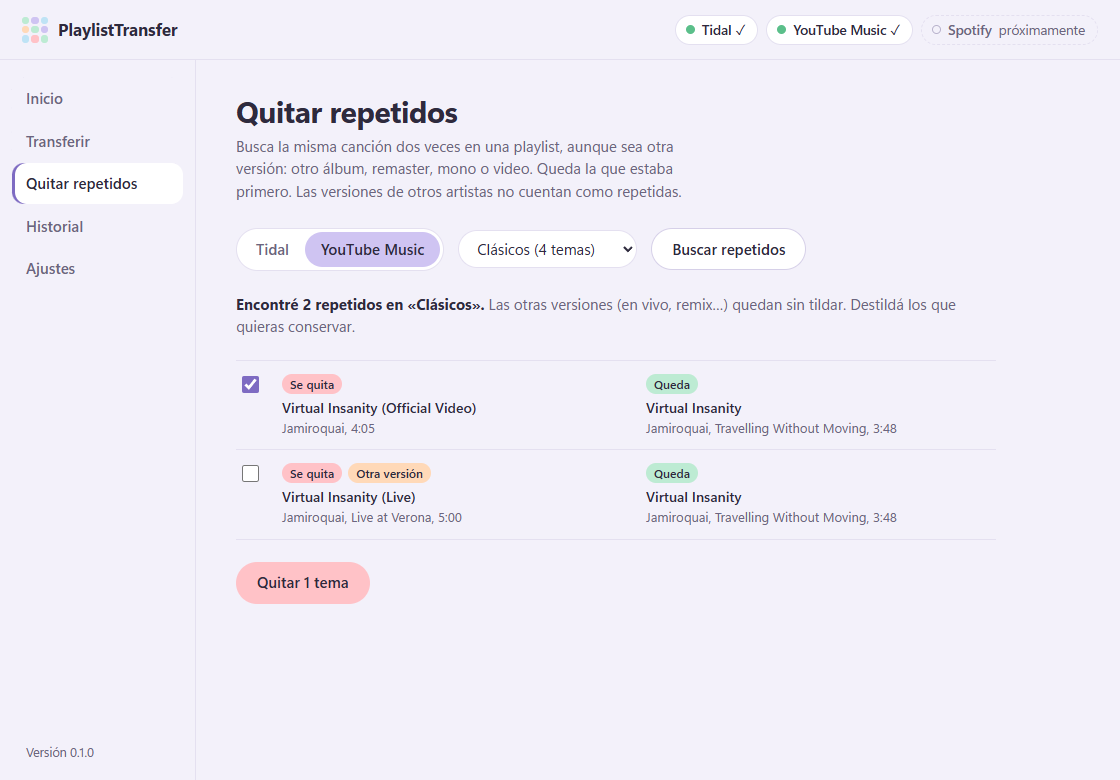
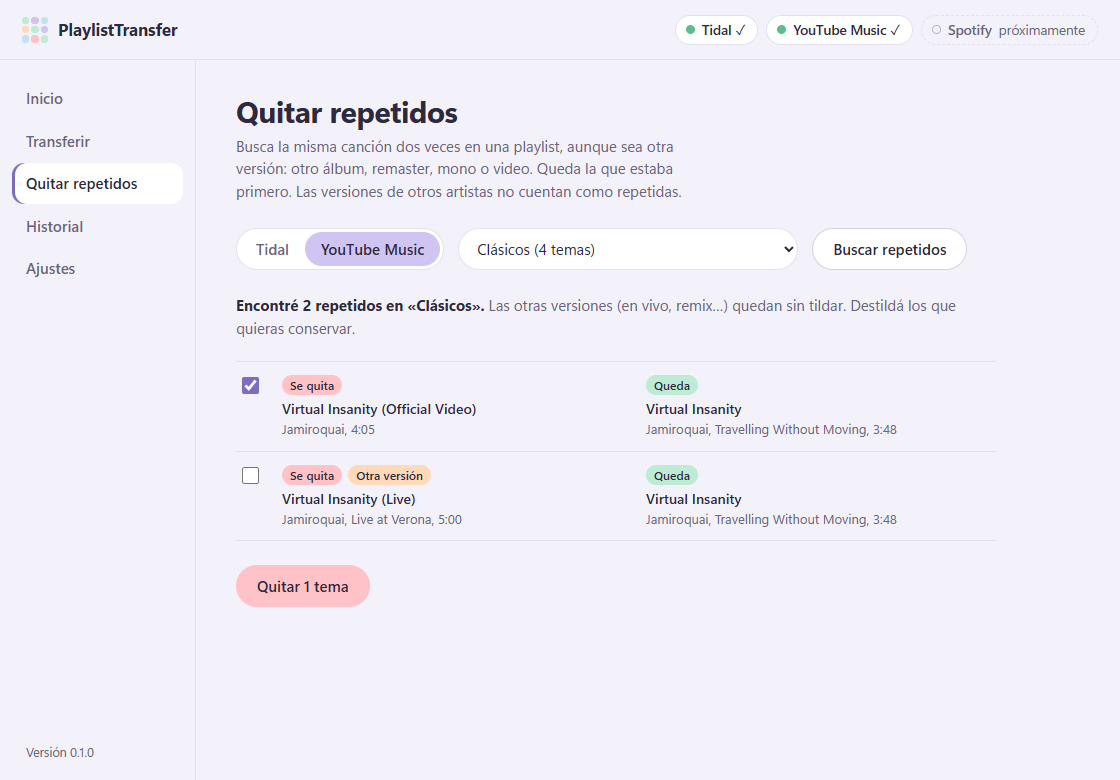
Mejoras 3/3: pantallas armonizadas con un solo sistema de tamaños
- Botones en 3 tamaños: 42 (acción principal), 36 (secundarias, Ajustes, avisos, estados
  vacíos) y 28 (dentro de un tema). Antes había 5 alturas distintas
- Campos de 36 con un mismo radio; en filas de acciones, 42: la fila de Repetidos queda
  alineada (antes 35 / 38 / 42)
- Misma separación de las filas de botones en todas las pantallas y mismo estilo de cajas
- Resultado: "Agregar los N…" debajo de su explicación; los botones ya no se apilan
- Ayuda de los umbrales más corta; sin estilos sueltos en el HTML
- tests/test_ui_design.py mide todos los controles de todas las pantallas
- Capturas del README actualizadas

diff --git a/app/ui/styles.css b/app/ui/styles.css
@@ -340,3 +340,52 @@ main { overflow-wrap: anywhere; }                       /* una palabra larguísi
 
 /* Repetidos: el selector no crece con el nombre más largo */
 #dup-playlist { width: 340px; max-width: 100%; min-width: 0; text-overflow: ellipsis; }
+
+/* =====================================================================================
+   Armonización (mejoras 3): un solo sistema de tamaños para toda la app.
+   Botones: grande (acción principal de la pantalla), mediano (secundarias, Ajustes, avisos,
+   estados vacíos) y chico (dentro de un tema de la lista). Los campos usan el alto mediano.
+   ===================================================================================== */
+:root {
+  --h-lg: 42px;
+  --h-md: 36px;
+  --h-sm: 28px;
+  --r-field: 12px;
+  --gap-actions: 24px;       /* separación entre el contenido y su fila de botones */
+  --gap-in-box: 16px;        /* lo mismo, dentro de una caja (resultado, Ajustes) */
+}
+
+/* Botones */
+.btn { height: var(--h-lg); }
+.btn.md, .svc .btn, .notice .btn, .empty .btn, .settings .btn {
+  height: var(--h-md); padding: 0 16px; font-size: 14px;
+}
+.tracks .alts button { height: var(--h-sm); padding: 0 12px; font-weight: 500; }
+
+/* Selector de opciones (Tidal / YouTube Music, Todo / Transferencias / Repetidos): mide lo
+   mismo que un botón grande, así la fila de Repetidos queda alineada */
+.seg { padding: 3px; align-items: center; }
+.seg button { height: calc(var(--h-lg) - 8px); padding: 0 16px; }
+
+/* Campos: alto mediano, mismo radio. El desplegable de una fila de acciones va al alto grande */
+.picker .filter, .picker .new input[type="text"], .thresholds input {
+  height: var(--h-md); border-radius: var(--r-field); font-size: 14px;
+}
+.row-controls .select { height: var(--h-lg); }
+
+/* Filas de acciones: misma separación en todas las pantallas */
+.actions { margin-top: var(--gap-actions); }
+.done-box .actions, .settings .actions { margin-top: var(--gap-in-box); }
+
+/* Cajas: avisos y resultado con el mismo aspecto */
+.notice, .done-box { padding: 18px 20px; border-radius: 16px; }
+.done-box .done-extra { margin-top: 12px; }
+
+/* Estado vacío: texto y botón en una línea, alineados */
+.history-mini li.empty, .hist li.empty { display: flex; align-items: center; gap: 12px; flex-wrap: wrap; }
+.empty .btn { margin-left: 0; }
+
+/* Ayuda de los umbrales: más corta y del mismo tamaño que el resto de las ayudas */
+.th-help { margin: 12px 0 0; font-size: 13.5px; }
+.dup-summary { margin: var(--gap-actions) 0 0; }
+.libs-title { margin-top: 12px; }

diff --git a/app/ui/index.html b/app/ui/index.html
@@ -98,9 +98,9 @@
         <div class="done-box" id="done" role="status">
           <p><b id="done-title"></b></p>
           <p class="muted" id="done-detail"></p>
-          <div class="actions" style="margin-top:14px">
+          <div class="done-extra"><button class="btn ghost md" id="add-all" hidden data-needs-idle></button></div>
+          <div class="actions">
             <button class="btn primary" id="open-dest" hidden></button>
-            <button class="btn ghost" id="add-all" hidden data-needs-idle></button>
             <button class="btn ghost" id="open-report" hidden data-i18n="transfer.open_report">Abrir el reporte</button>
             <button class="btn ghost" id="again" data-i18n="transfer.again">Hacer otra transferencia</button>
           </div>
@@ -122,7 +122,7 @@
         <select class="select" data-i18n-aria="dedupe.playlist_aria" aria-label="Playlist" id="dup-playlist"></select>
         <button class="btn ghost" id="dup-scan" disabled data-i18n="dedupe.scan">Buscar repetidos</button>
       </div>
-      <p style="margin:22px 0 0" id="dup-summary" hidden></p>
+      <p class="dup-summary" id="dup-summary" hidden></p>
       <ul class="dups" id="dups"></ul>
       <div class="actions" id="dup-actions" hidden>
         <button class="btn danger" id="remove" disabled data-i18n="dedupe.remove">Quitar</button>
@@ -178,7 +178,7 @@
           </div>
           <p class="muted th-help" id="th-help"></p>
           <p class="error" id="th-error" hidden></p>
-          <div class="actions" style="margin-top:12px">
+          <div class="actions">
             <button class="btn ghost" id="th-save" data-i18n="settings.th_save">Guardar</button>
             <button class="btn ghost" id="th-reset" data-i18n="settings.th_reset">Volver a los valores de fábrica</button>
           </div>
@@ -195,7 +195,7 @@
         <div>
           <p id="about-version"></p>
           <p class="muted" data-i18n="settings.not_affiliated">No está afiliado a Tidal, Google ni Spotify.</p>
-          <p class="muted" style="margin-top:12px" data-i18n="settings.libraries">Usa estas librerías de código abierto:</p>
+          <p class="muted libs-title" data-i18n="settings.libraries">Usa estas librerías de código abierto:</p>
           <ul class="licenses" id="licenses"></ul>
         </div>
       </section>

diff --git a/tests/test_ui_design.py b/tests/test_ui_design.py
@@ -1,0 +1,70 @@
+"""Sistema de diseño: todos los botones y campos usan los tamaños definidos (mejoras 3).
+
+Botones: 42 (principal), 36 (secundario) y 28 (dentro de un tema). Los segmentos de un selector
+miden 34 y el selector entero, 42. Campos: 36, o 42 si están en una fila de acciones. Los
+selectores de la frase de Inicio ("Pasar de Tidal a…") son grandes a propósito.
+"""
+from __future__ import annotations
+
+from tests.test_ui import browser, make_api, open_page  # noqa: F401  (fixture de Playwright)
+
+BUTTONS = {28, 36, 42}
+SEGMENT = 34
+FIELDS = {36, 42}
+
+MEASURE = """(screen) => {
+  const vis = el => { const r = el.getBoundingClientRect(); return r.width > 0 && r.height > 0; };
+  const root = document.querySelector('#' + screen), out = [];
+  root.querySelectorAll('button, input[type=text], input[type=search], input[type=number], select').forEach(el => {
+    if (!vis(el) || el.matches('.hist button.row, .sentence select')) return;   // filas del historial y la frase de Inicio
+    out.push({what: (el.id || el.className || el.tagName) + ' «' + (el.textContent || '').trim().slice(0, 20) + '»',
+              h: Math.round(el.getBoundingClientRect().height), tag: el.tagName, seg: !!el.closest('.seg'),
+              field: el.matches('input, select')});
+  });
+  return out;
+}"""
+
+
+def check(page, screen):
+    bad = []
+    for el in page.evaluate(MEASURE, screen):
+        allowed = {SEGMENT} if el["seg"] else (FIELDS if el["field"] else BUTTONS)
+        if el["h"] not in allowed:
+            bad.append(f"{screen}: {el['what']} mide {el['h']}px (permitido: {sorted(allowed)})")
+    return bad
+
+
+def test_every_control_uses_the_design_sizes(browser, tmp_path):
+    api, tidal, yt = make_api(tmp_path)
+    for i in range(12):
+        yt.add_playlist(f"x{i}", f"Lista {i}", [])
+    page, errors = open_page(browser, api)
+    bad = check(page, "inicio")
+    page.click("nav [data-go=transferir]")
+    page.wait_for_selector("input[name=src]")
+    page.check("input[name=src][value=src]")
+    page.check("#dst-new")
+    bad += check(page, "transferir")
+    page.uncheck("#dst-new")
+    page.check("input[name=dst][value=dst]")
+    page.uncheck("#add-doubtful")
+    page.click("#go")
+    page.wait_for_selector("#done.show")
+    bad += check(page, "transferir")
+    page.click("nav [data-go=repetidos]")
+    page.click("#dup-svc [data-svc=ytmusic]")
+    page.wait_for_selector("#dup-playlist option[value=dups]", state="attached")
+    page.select_option("#dup-playlist", "dups")
+    page.click("#dup-scan")
+    page.wait_for_selector("#dups li")
+    bad += check(page, "repetidos")
+    row = page.evaluate("[...document.querySelectorAll('#dup-controls > *')].map(e => Math.round(e.getBoundingClientRect().height))")
+    assert len(set(row)) == 1, f"la fila de Repetidos no está alineada: {row}"
+    page.click("nav [data-go=historial]")
+    page.wait_for_selector("#hist li[data-op]")
+    bad += check(page, "historial")
+    page.click("nav [data-go=ajustes]")
+    page.wait_for_selector("#th-ok")
+    bad += check(page, "ajustes")
+    assert errors == []
+    assert bad == []

diff --git a/SPEC.md b/SPEC.md
@@ -1,6 +1,6 @@
 # SPEC — PlaylistTransfer (app de escritorio)
 
-Estado: **F0, F1 y F2 terminadas** (F2 probada por el usuario el 2026-11-08: dos transferencias reales de Tidal a YouTube Music y dos limpiezas de repetidos desde la ventana, sin errores en el log). **F3 terminada** (el usuario probó "Exportar a CSV" desde la ventana; el CSV con su historial real se verificó en su Excel 16). **F4 terminada** (2026-11-08): repo privado On33-3/PlaylistTransfer, Release v0.1.0 compilada por GitHub Actions; el zip descargado del Release corre en la PC del usuario sin Python en el PATH. Pendiente: el usuario sube el zip a VirusTotal (no hay clave de API). El repo es privado por decisión del usuario: hacerlo público es un paso aparte. **Antes de F5/F6, mejoras de la app en 3 etapas** (pedido del usuario, de a poco y sin romper): 1) idiomas castellano/inglés — hecha; 2) que los cuadrados de colores informen — hecha como primer acercamiento: leyenda en Inicio e Historial, cada cuadrado dice qué tema es y su estado al pasar el mouse, "+N" si hay más de 60, y en el mosaico grande un clic lleva a ese tema en la lista (si no alcanza, el plan B son contadores con texto); 3) armonizar las pantallas. Cualquier decisión que cambie el alcance, el costo o el riesgo se consulta con el usuario; las decisiones menores se anotan acá en "Decisiones tomadas".
+Estado: **F0, F1 y F2 terminadas** (F2 probada por el usuario el 2026-11-08: dos transferencias reales de Tidal a YouTube Music y dos limpiezas de repetidos desde la ventana, sin errores en el log). **F3 terminada** (el usuario probó "Exportar a CSV" desde la ventana; el CSV con su historial real se verificó en su Excel 16). **F4 terminada** (2026-11-08): repo privado On33-3/PlaylistTransfer, Release v0.1.0 compilada por GitHub Actions; el zip descargado del Release corre en la PC del usuario sin Python en el PATH. Pendiente: el usuario sube el zip a VirusTotal (no hay clave de API). El repo es privado por decisión del usuario: hacerlo público es un paso aparte. **Antes de F5/F6, mejoras de la app en 3 etapas** (pedido del usuario, de a poco y sin romper): 1) idiomas castellano/inglés — hecha; 2) que los cuadrados de colores informen — hecha como primer acercamiento: leyenda en Inicio e Historial, cada cuadrado dice qué tema es y su estado al pasar el mouse, "+N" si hay más de 60, y en el mosaico grande un clic lleva a ese tema en la lista (si no alcanza, el plan B son contadores con texto); 3) armonizar las pantallas — hecha: un sistema de tamaños (botones de 42 / 36 / 28 px, campos de 36 y 42 en filas de acciones, un radio para campos, misma separación de las filas de botones y mismo estilo de cajas), sin estilos sueltos en el HTML; `tests/test_ui_design.py` falla si un control se sale del sistema. Cualquier decisión que cambie el alcance, el costo o el riesgo se consulta con el usuario; las decisiones menores se anotan acá en "Decisiones tomadas".
 
 ## 1. Objetivo
 Una mini app de escritorio para Windows, **minimalista y linda (colores pastel)**, que:

diff --git a/CLAUDE.md b/CLAUDE.md
@@ -6,6 +6,7 @@ Proyecto open source pensado para GitHub. El plan completo, con decisiones y fas
 ## Estado actual
 - F0 aprobada (`prototype/index.html` es la referencia visual). **F1 hecha**: motor en `app/core/`, conectores en `app/connectors/`, login en `app/auth/`. **F2 terminada** (probada por el usuario con cuentas reales el 2026-11-08): ventana con pywebview (`app/main.py`, `app/api.py`, `app/jobs.py`, `app/core/transfer.py`, `app/ui/`). **F3 terminada** (`app/storage/export.py`, umbrales en `app/storage/prefs.py`). **F4 terminada**: repo **privado** On33-3/PlaylistTransfer, Release v0.1.0. Publicar versiones, hacer público el repo o subir a VirusTotal: solo con el OK explícito del usuario. Los reportes CSV nunca se generan solos: solo a pedido (casilla en Transferir o botón en Historial).
 - Idiomas: **ningún texto visible va escrito en el código**. La UI usa `t("clave")` / `data-i18n`, Python usa `tr("clave")` (`from app.i18n import t as tr`: `t` suele ser variable de bucle). Las claves viven en `app/locales/es.json` y `en.json`, con las mismas claves en los dos (`tests/test_i18n.py`). Los tests corren en castellano (fixture `spanish_by_default`).
+- Diseño: usá las variables de `:root` (`--h-lg` 42, `--h-md` 36, `--h-sm` 28, `--r-field`, `--gap-actions`) y las clases `.btn` / `.btn.md`; nada de `style="..."` en el HTML. `tests/test_ui_design.py` mide todos los controles y `tests/test_ui_stress.py` prueba datos extremos en la ventana mínima.
 - CSV para Excel: no cambies el formato de la fecha (`2026-11-08 · 01:00`) ni el separador por región sin volver a probar en Excel (SPEC, "Formato del CSV").
 - `legacy/transfer_playlist.py` es la **versión de consola que ya funciona** (probada con cuentas reales, también en dry-run el 2026-11-08) y la referencia del motor. Ya no hace falta para usar la app; se conserva como referencia hasta que el usuario decida borrarla. Se corre desde la raíz, así sigue usando las sesiones guardadas ahí. La app nueva **no** usa esas sesiones: guarda las suyas en `%LOCALAPPDATA%\PlaylistTransfer\`.
 - UI: sin frameworks ni recursos externos (sin Google Fonts: funciona sin internet y no avisa a nadie). pywebview publica a la página todo atributo público de `Api`: el estado va siempre con `_` (hay un test).
